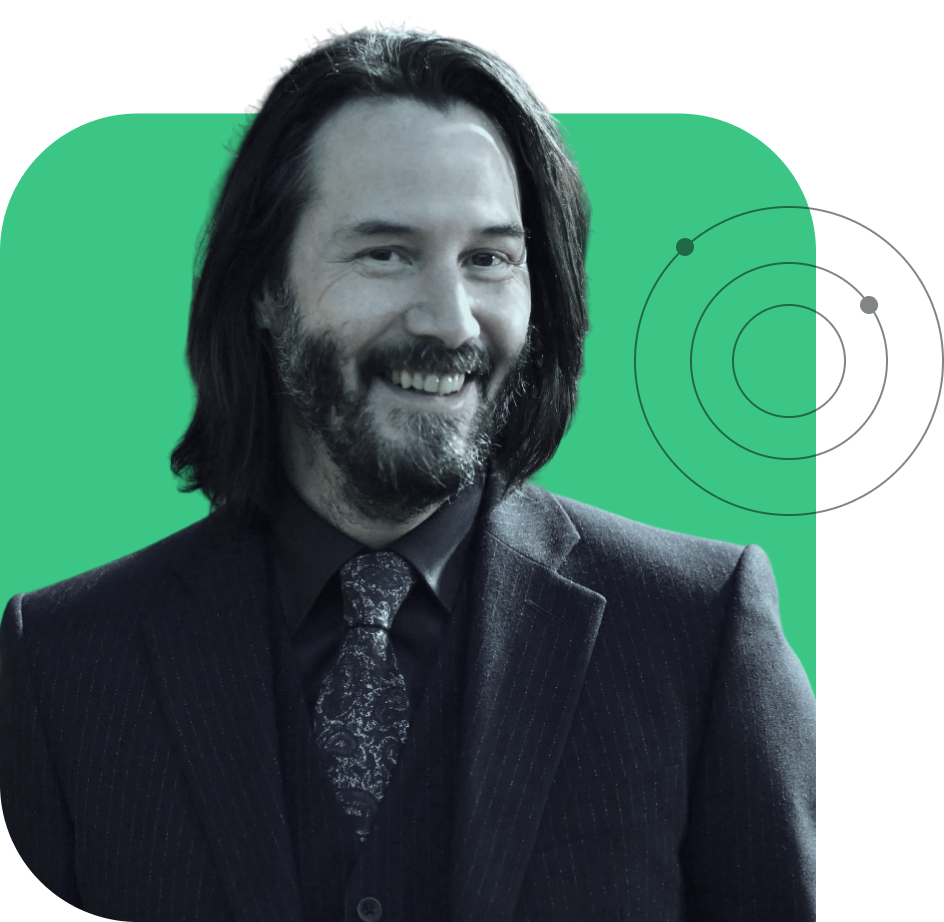
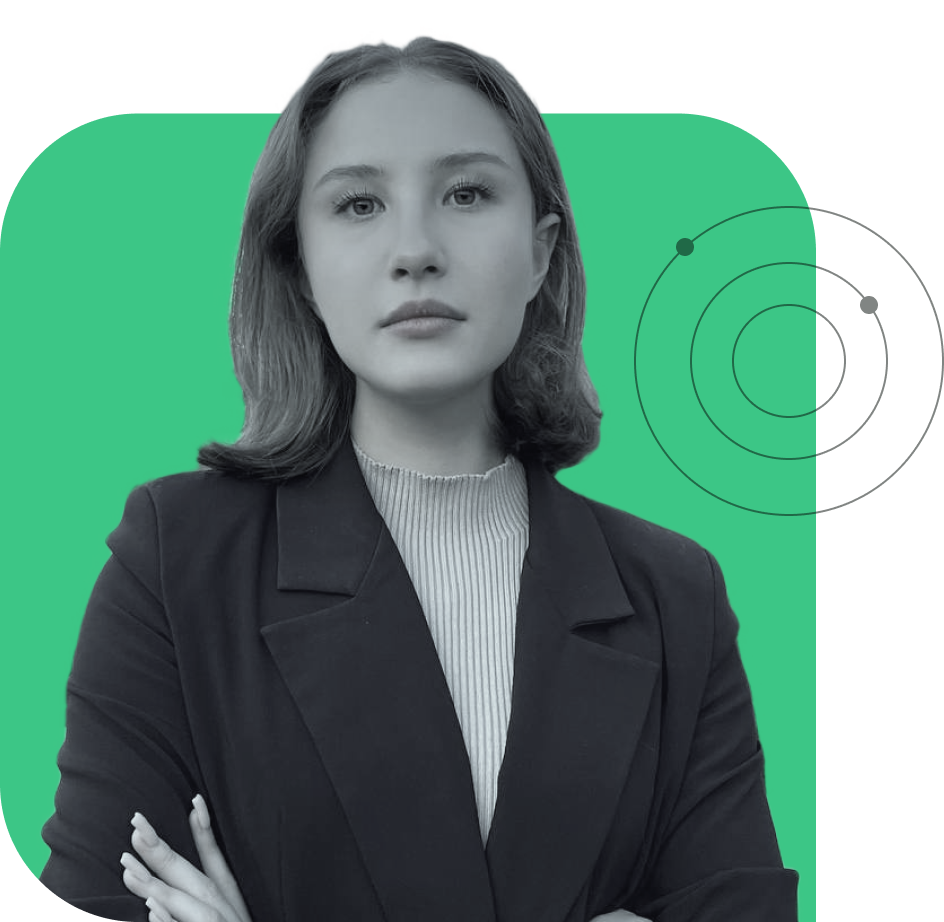
change pics and names

Changed region(s): [[0.0, 0.0304, 0.8909, 1.0]]

diff --git a/templates/admin_login.html b/templates/admin_login.html
@@ -1,0 +1,39 @@
+<!DOCTYPE html>
+<html lang="en">
+	<head>
+		<meta charset="UTF-8">
+		<meta name="viewport" content="width=device-width, initial-scale=1">
+		<title>Hello world</title>
+		<link rel="preconnect" href="https://fonts.googleapis.com">
+		<link rel="preconnect" href="https://fonts.gstatic.com" crossorigin>
+		<link href="https://fonts.googleapis.com/css2?family=Playfair+Display:ital,wght@0,400..900;1,400..900&family=Prata&display=swap" rel="stylesheet">
+		<link href="/static/css/variables.css" rel="stylesheet">
+		<link href="/static/css/styles.css" rel="stylesheet">
+		<link href="/static/css/page.css" rel="stylesheet">
+		<link href="/static/css/auth.css" rel="stylesheet">
+		<link rel="icon" href="static/logo.svg" type="image/x-icon">
+	</head>
+	<body class="page">
+		{% include "header.html" %}
+		<main class="container">
+			<h1>Вход</h1>
+			
+			{% if error %}
+				<div class="error">
+					{{error}}
+				</div>
+			{% endif %}
+
+			<form action="/admin/login" method="POST">
+				<label for="email">Email</label>
+				<input id="email" name="email" type="text" required>
+
+				<label for="password">Пароль</label>
+				<input id="password" name="password" type="password" required>
+
+				<input type="submit" value="Войти">
+			</form>
+		</main>
+		{% include "footer.html" %}
+	</body>
+</html>

diff --git a/templates/admin.html b/templates/admin.html
@@ -1,0 +1,36 @@
+<!DOCTYPE html>
+<html lang="en">
+	<head>
+		<meta charset="UTF-8">
+		<meta name="viewport" content="width=device-width, initial-scale=1">
+		<title>Hello world</title>
+		<link rel="preconnect" href="https://fonts.googleapis.com">
+		<link rel="preconnect" href="https://fonts.gstatic.com" crossorigin>
+		<link href="https://fonts.googleapis.com/css2?family=Playfair+Display:ital,wght@0,400..900;1,400..900&family=Prata&display=swap" rel="stylesheet">
+		<link href="/static/css/variables.css" rel="stylesheet">
+		<link href="/static/css/styles.css" rel="stylesheet">
+		<link href="/static/css/page.css" rel="stylesheet">
+		<link href="/static/css/auth.css" rel="stylesheet">
+		<link rel="icon" href="static/logo.svg" type="image/x-icon">
+	</head>
+	<body class="page">
+		{% include "header.html" %}
+		<main class="container">
+			<h1>Панель администратора</h1>
+
+			<h2>Последние результаты тестов:</h2>
+			<div>
+				{% for result in results %}
+					<p>
+						{{ result.user.first_name }}
+						{{ result.user.last_name }} – 
+						{{ result.test_result.score }} / 
+						{{ result.test_result.max_score }}
+					</p>
+				{% endfor %}
+			</div>
+			
+		</main>
+		{% include "footer.html" %}
+	</body>
+</html>

diff --git a/templates/header.html b/templates/header.html
@@ -2,7 +2,7 @@
 	<div class="container container--header">
 		<a class="logo-link" href="/">
 			<span class="logo"><img src="/static/logo.svg" alt=""></span>
-			<span class="site-name">Keanu Reeves</span>
+			<span class="site-name">Алина Камалова</span>
 		</a>
 
 		<nav class="navmenu">
@@ -14,7 +14,7 @@
 
 		<div class="header__contacts">
 			<a href="tel:+78005553535">+7 800 555-35-35</a>
-			<a href="mailto:keanureeves@mail.ru">keanureeves@mail.ru</a>
+			<a href="mailto:keanureeves@mail.ru">kamalovaalina@mail.ru</a>
 		</div>
 	</div>
 </header>

diff --git a/templates/footer.html b/templates/footer.html
@@ -1,3 +1,3 @@
 <footer class="footer">
-	&copy; Keanu Reeves 2024
+	&copy; Алина Камалова 2024
 </footer>

diff --git a/admin/routes.py b/admin/routes.py
@@ -1,0 +1,48 @@
+from fastapi import APIRouter, Request, Form, Cookie
+from fastapi.responses import RedirectResponse
+from config import server
+# from models.user import User
+from models.user_test_result import UserTestResult
+from auth.helpers import jwt
+
+
+router = APIRouter(tags=["Admin"])
+
+
+@router.get("/admin/login")
+async def login_page(request: Request, error: str | None = None):
+	context = {}
+	if error == 'wrongpassword':
+		context['error'] = 'Неверный пароль'
+	return server.jinja.TemplateResponse(
+		request=request,
+		name="admin_login.html",
+		context=context
+	)
+
+
+@router.post("/admin/login")
+async def login(request: Request,
+		email: str = Form(),
+		password: str = Form()):
+	if email != "admin" or password != "12345678":
+		return RedirectResponse("/admin/login?error=wrongpassword", status_code=303)
+	token = jwt.issue(email)
+	response = RedirectResponse("/admin", status_code=303)
+	response.set_cookie(key="token", value=token, expires=jwt.TTL)
+	return response
+
+
+@router.get("/admin")
+async def admin(request: Request, token: str | None = Cookie()):
+	if (validate := jwt.validate(token)) and validate['sub'] != "admin":
+		return RedirectResponse("/", status_code=303)
+
+	test_results = UserTestResult.get_all(server.conn)
+
+	return server.jinja.TemplateResponse(
+		request=request,
+		name="admin.html",
+		context={"results": test_results}
+	)
+

diff --git a/models/user_work.py b/models/user_work.py
@@ -1,0 +1,42 @@
+from models.model import Model
+from models.work import Work
+from models.user import User
+
+from pymysql import Connection
+
+
+class UserWork(Model):
+	work: Work
+	user: User
+
+	@staticmethod
+	def get_all(conn: Connection):
+		sql = """
+		SELECT
+			TR.id
+			, TR.test_id
+			, TR.user_id
+			, TR.score
+			, TR.max_score
+			, TR.sent_at
+			, U.id
+			, U.first_name
+			, U.last_name
+			, U.email
+			, U.password_hash
+			, U.class
+		FROM students_works AS TR
+			LEFT JOIN users AS U ON TR.user_id = U.id
+		ORDER BY TR.sent_at DESC
+		LIMIT 10;
+		"""
+		with conn.cursor() as cur:
+			cur.execute(sql)
+			return [
+				{
+					"test_result": Work(*x[:6]),
+					"user": User(*x[6:])
+				}
+				for x in cur.fetchall()
+			]
+
